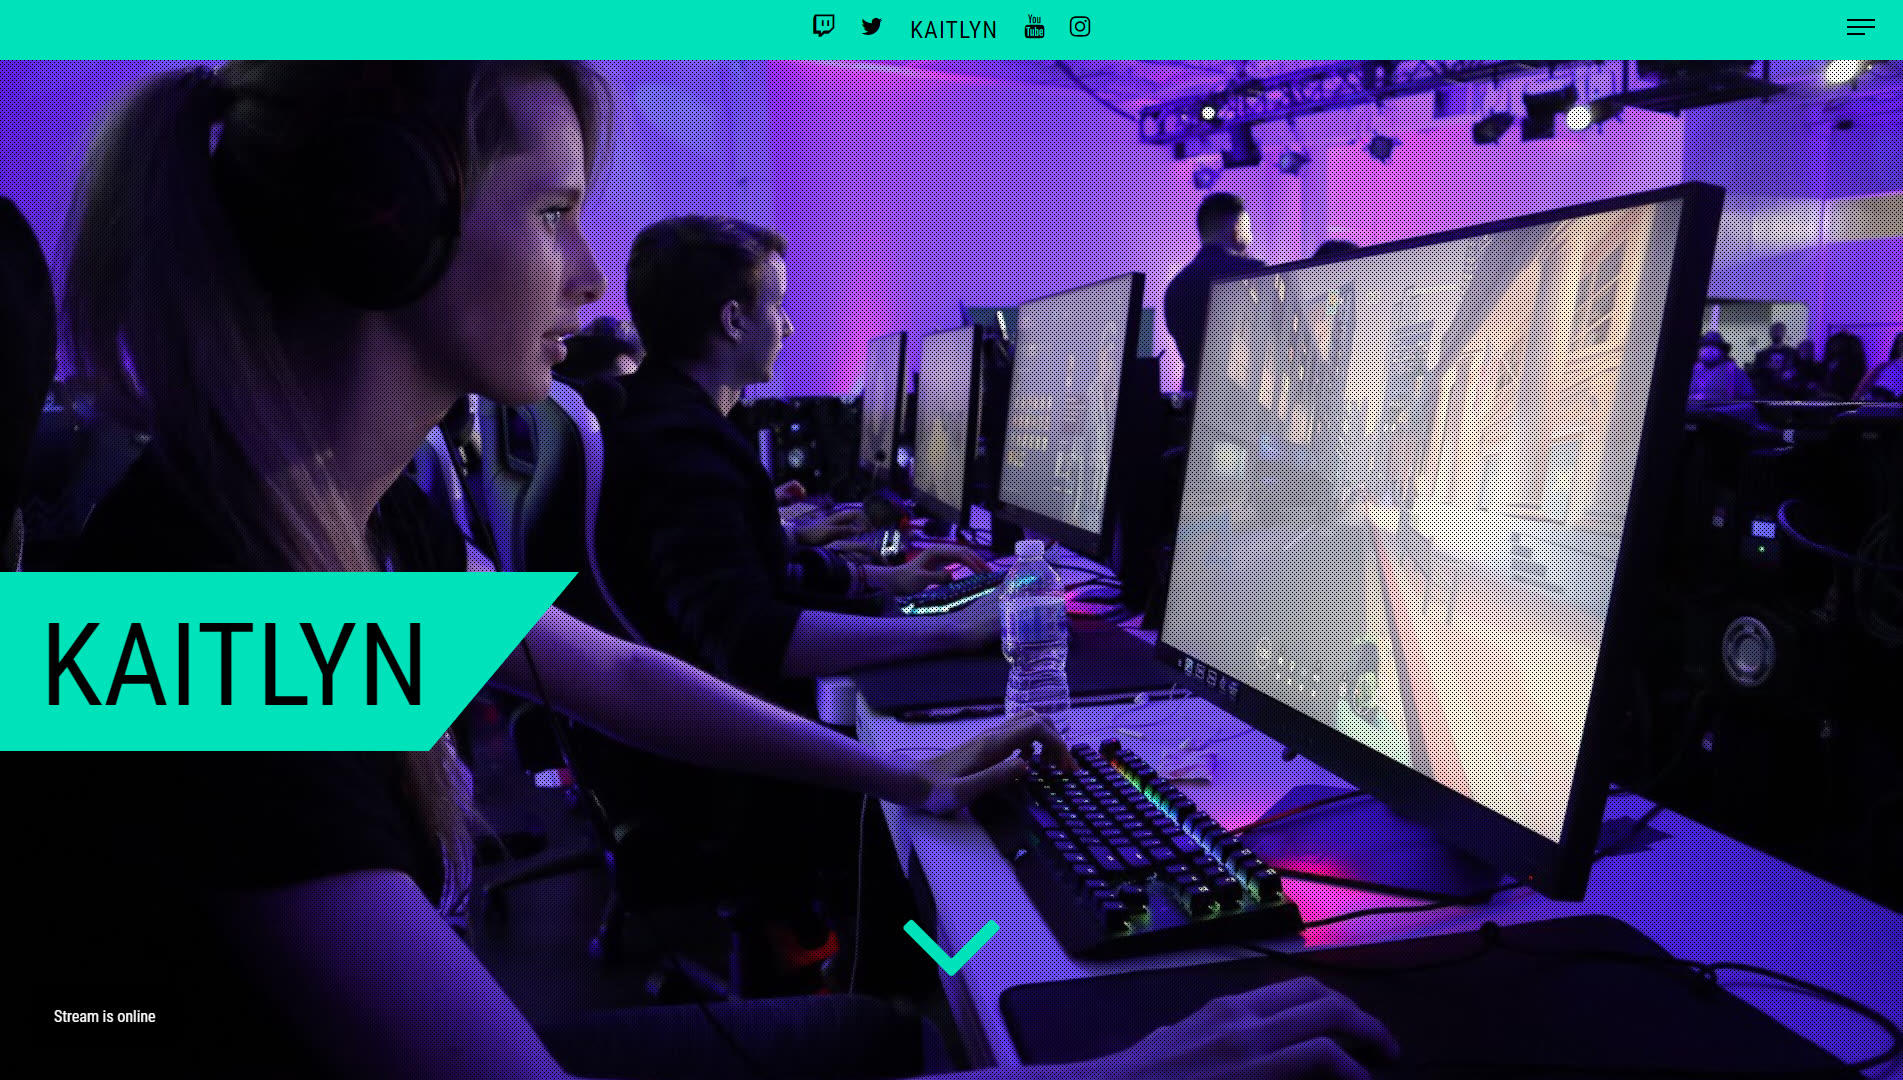
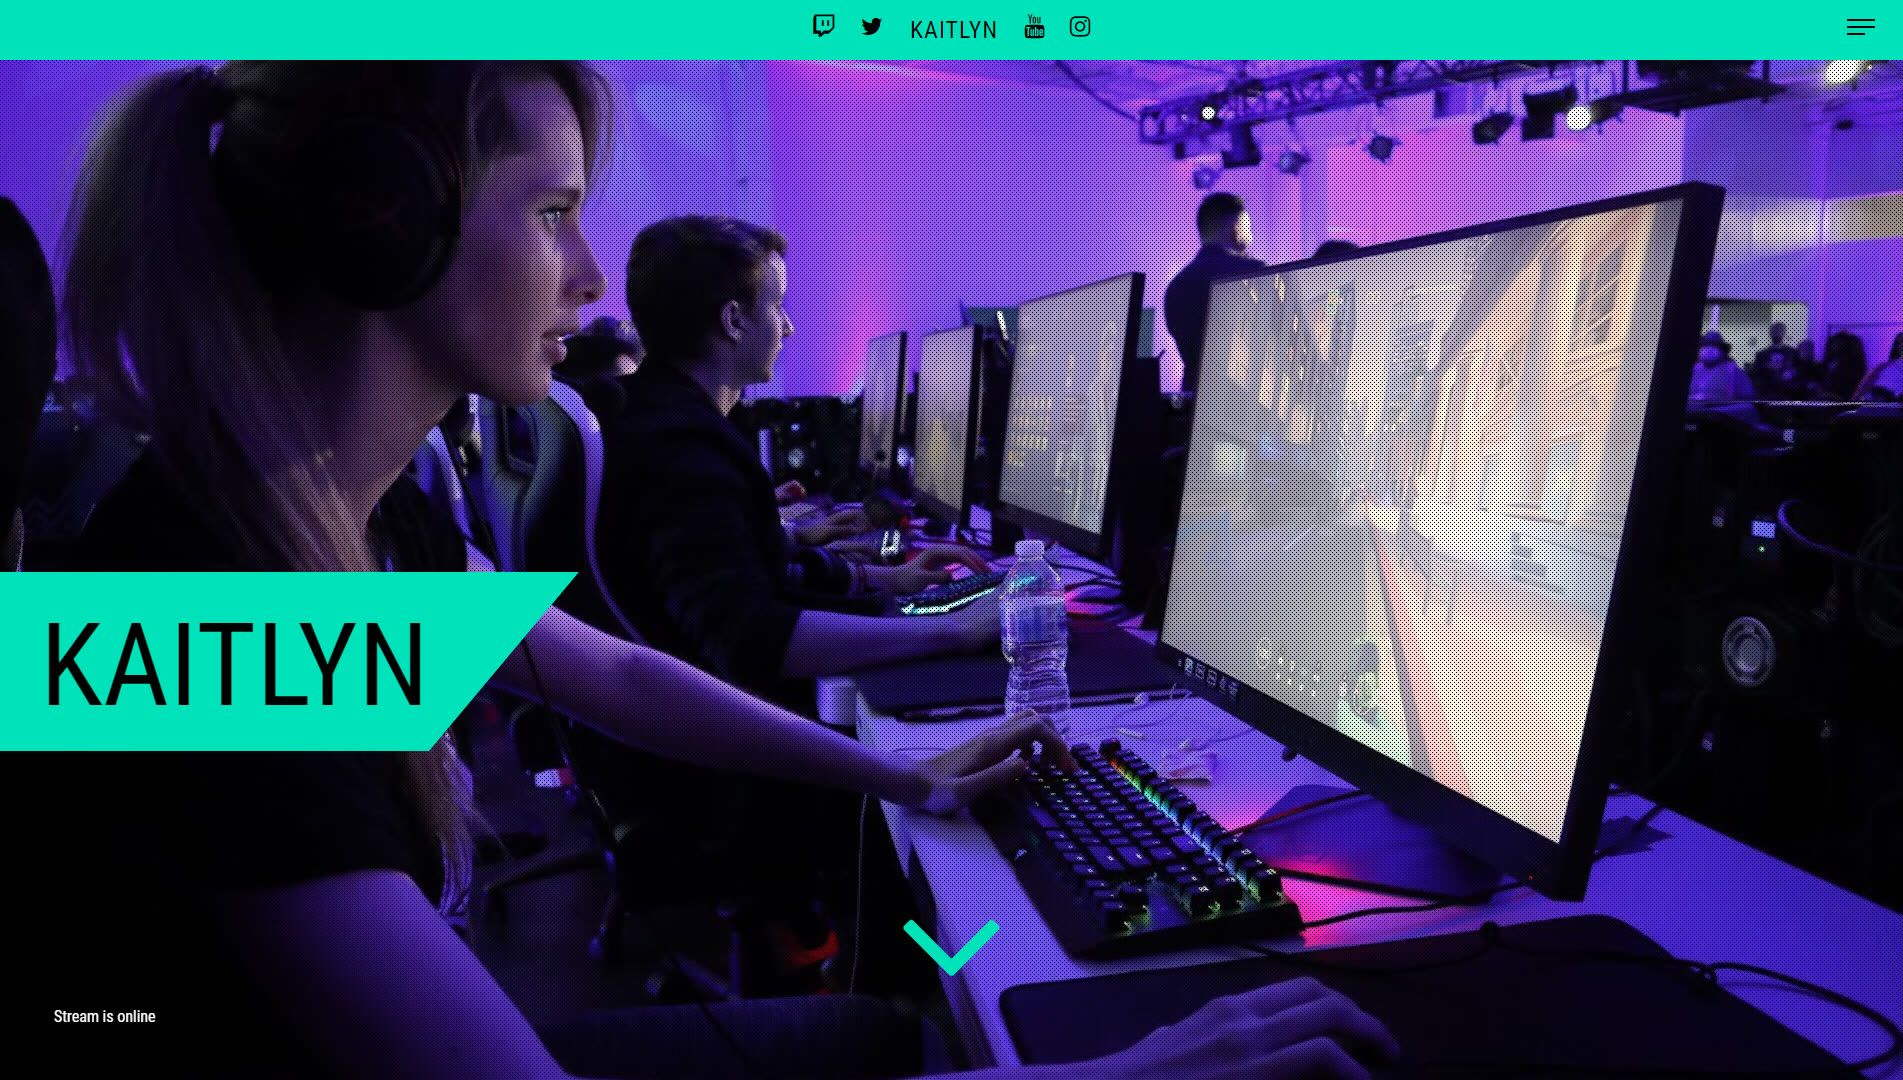
mix-blend-mode was causing some performance issues

diff --git a/client/src/menu9/MenuButtonBlend.js b/client/src/menu9/MenuButtonBlend.js
@@ -12,56 +12,73 @@ const StyledContainer = styled.div`
   display: flex;
   flex-direction: column;
 `;
+const StyledLetter = styled.div`
+  font-weight: 400;
+  color: #fff;
+  font-size: var(--size-small);
+  line-height: 140%;
+  display: flex;
+  justify-content: center;
+`;
 const StyledLines = styled.div`
   width: 100%;
   position: relative;
   display: flex;
   justify-content: center;
   height: var(--size-spacing-small);
+  margin-top: var(--size-spacing-small);
 `;
 const StyledLineOne = styled.span`
   position: absolute;
   top: 50%;
   left: 50%;
-  transform: ${props => props.menuDisplay ? 'translate(-50%, -50%) rotate(-45deg)' : 'translate(-50%, -30%) rotate(90deg) scaleY(0.7)'};
+  transform: ${props => props.menuDisplay ? 'translate(-50%, -50%) rotate(-45deg)' : 'translate(-50%, -50%)'};
   height: 100%;
-  width: 1px;
-  background-color: #000;
+  width: .1vw;
+  background-color: #fff;
   transition: all 0.5s cubic-bezier(0.000, 0.785, 0.000, 1.000);
 `;
 const StyledLineTwo = styled.span`
   position: absolute;
   top: 50%;
   left: 50%;
-  transform: ${props => props.menuDisplay ? 'translate(-50%, -50%) rotate(45deg)' : 'translate(-50%, -70%) rotate(90deg) scaleY(0.7)'};
+  transform: ${props => props.menuDisplay ? 'translate(-50%, -50%) rotate(45deg)' : 'translate(-50%, -50%)'};
   height: 100%;
-  width: 1px;
-  background-color: #000;
+  width: .1vw;
+  background-color: #fff;
   transition: all 0.5s cubic-bezier(0.000, 0.785, 0.000, 1.000);
 `;
 const StyledWrapper = styled.div`
-  height: 2rem;
-  width: 2rem;
+  height: 100%;
   padding: 1rem;
-  background-color: #c4a381;
+  mix-blend-mode:  difference;
+  border-left: 1px solid #fff;
+
+  @media screen and (max-width: 992px) {
+    border: none;
+    height: auto;
+    padding: 2rem;
+  }
+
   position: fixed;
-  top: 1rem;
-  right: 1rem;
+  top: 0;
+  right: 0;
   cursor: pointer;
   transition: ${props => props.theme.transitionMedium};
   display: flex;
   flex-direction: column;
   justify-content: center;
   &:hover ${StyledContainer} ${StyledLines} ${StyledLineOne} {
-    transform: translate(-50%, -50%);
+    transform: translate(-50%, -30%) rotate(90deg) scaleY(0.7);
   }
   &:hover ${StyledLineTwo} {
-    transform: translate(-50%, -50%);
+    transform: translate(-50%, -70%) rotate(90deg) scaleY(0.7);
   }
   &:active, &:focus {
     outline: none;
   }
 `;
+
 
 const handleKeyDown = (event, action) => {
   if (event.keyCode === 13) {
@@ -76,6 +93,10 @@ const MenuButton = ({menuDisplay, toggleMenu}) => {
       aria-label="menu button"
     >
       <StyledContainer>
+        <StyledLetter>M</StyledLetter>
+        <StyledLetter>E</StyledLetter>
+        <StyledLetter>N</StyledLetter>
+        <StyledLetter>U</StyledLetter>
         <StyledLines >
           <StyledLineOne menuDisplay={menuDisplay}/>
           <StyledLineTwo menuDisplay={menuDisplay}/>

diff --git a/client/src/App.js b/client/src/App.js
@@ -8,8 +8,7 @@ import asyncComponent from 'components/split/AsyncComponent';
 import {Switch, Route} from 'react-router-dom';
 import styled, {ThemeProvider} from 'styled-components';
 import {themeData} from 'data/themeData';
-//import TrackMouse from 'components/services/TrackMouse';
-//import CursorTrail from 'components/services/CursorTrail';
+import CursorTrail from 'components/services/CursorTrail';
 
 const AsyncAdmin = asyncComponent(() => import('routes/PassportCheck'));
 
@@ -32,7 +31,7 @@ const App = () => {
             <Route path="/" render={(props) => <SiteRoutesWrapper {...props}/>}/>
           </Switch>
         </StyledWrapper>
-      {/*<CursorTrail/>*/}
+      <CursorTrail/>
     </ThemeProvider>
   );
 };

diff --git a/client/src/components/services/CursorTrail.js b/client/src/components/services/CursorTrail.js
@@ -87,7 +87,7 @@ const CursorTrail = () => {
     }
     window.addEventListener("resize", resize, false);
 
-    ["#000", "#111", "#e5cce5", "#333", "#444"].forEach(
+    ["#000", "#111", "#c4a381", "#333", "#444"].forEach(
       (color) => {
         const line = {
           spring: random(0.02, 0.1),
